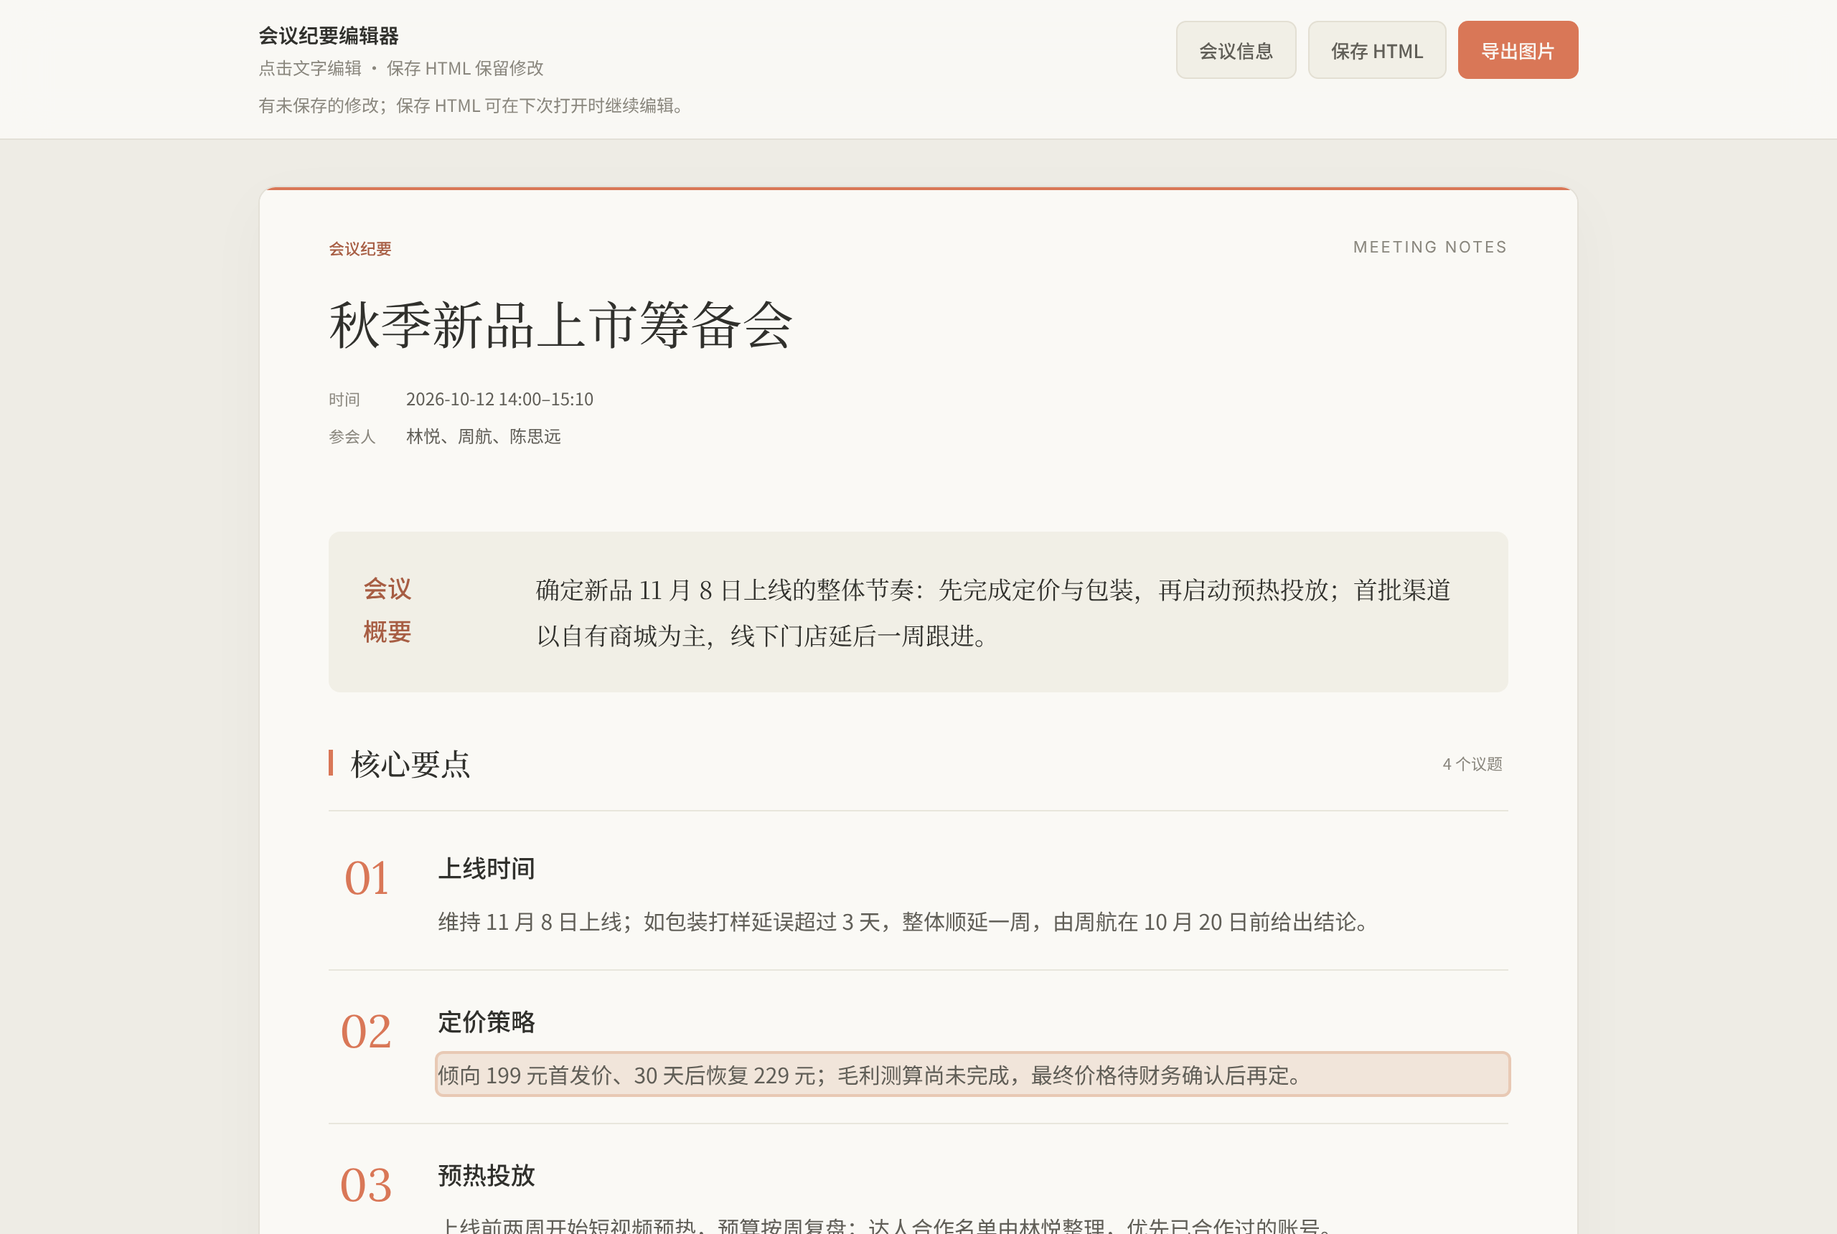
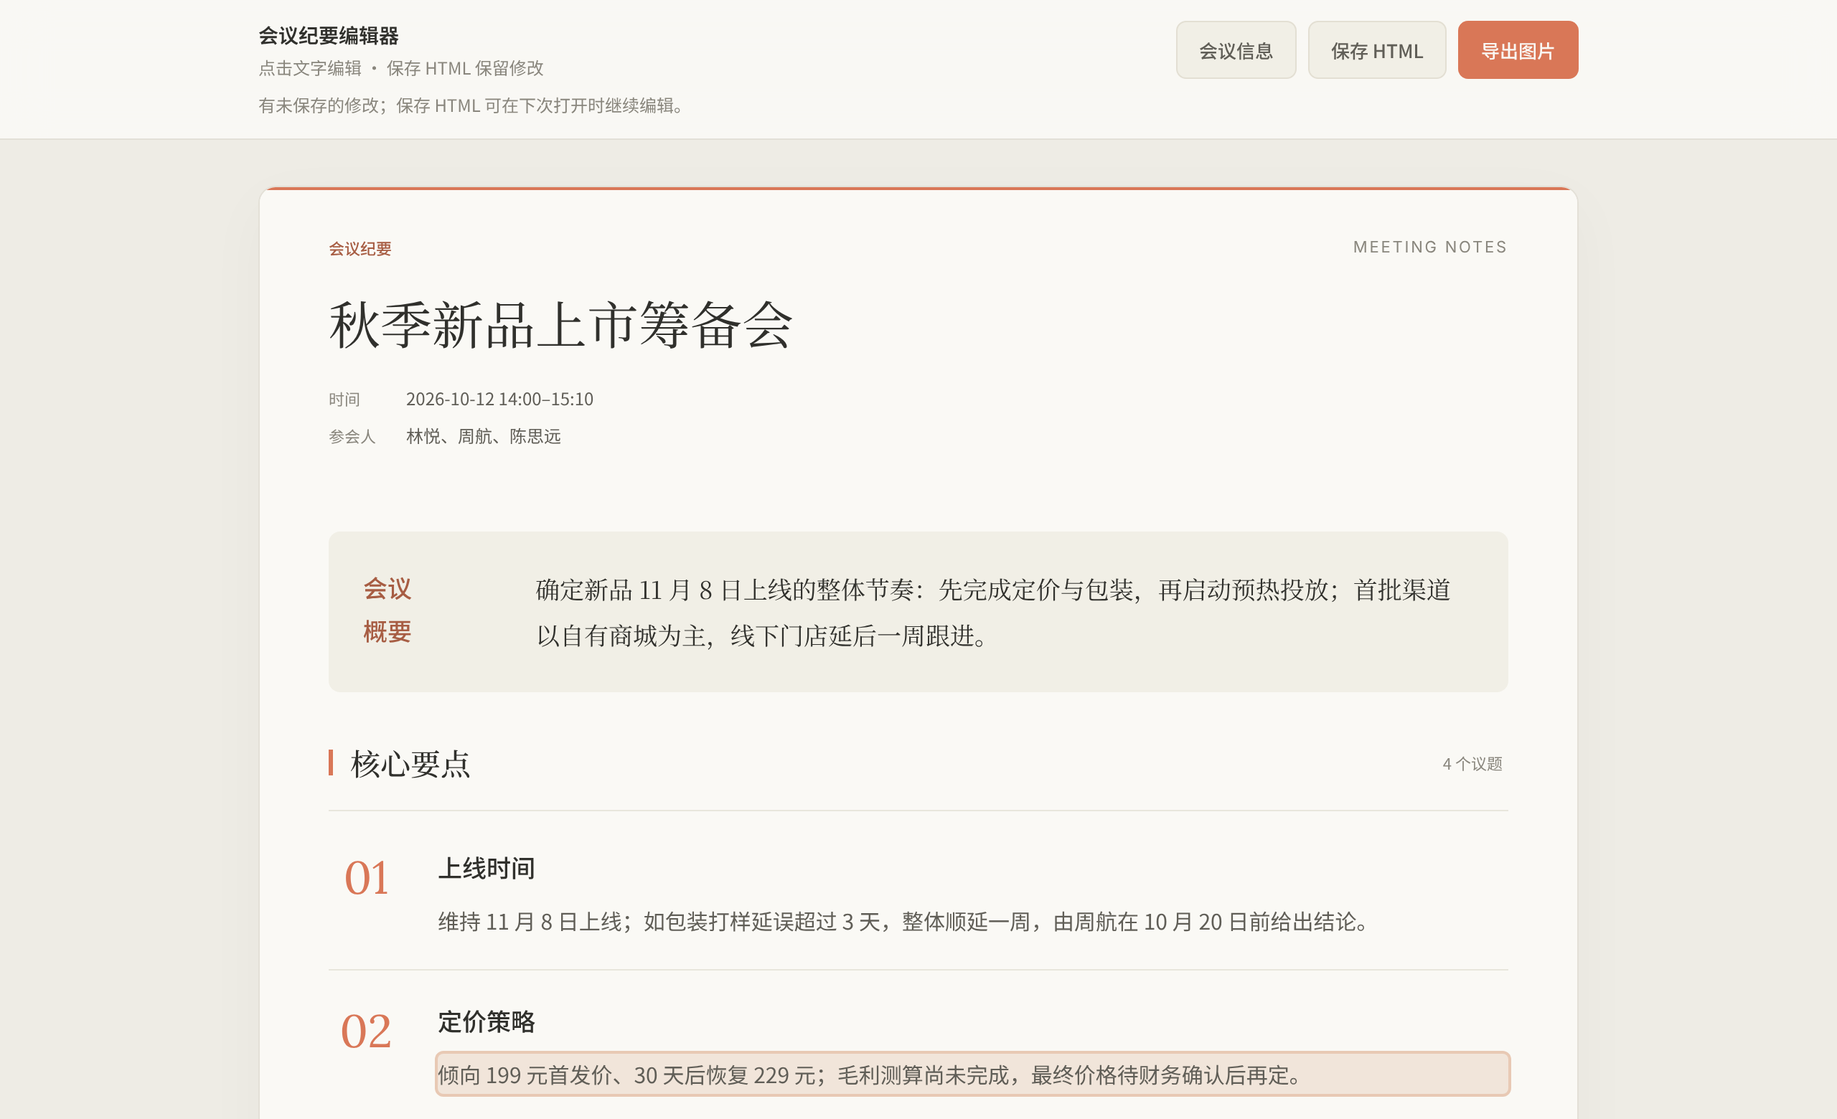
README: lighter layout and dark-mode artwork
- Dark variants of the banner and workflow image, switched with
  <picture> so they blend into GitHub's dark theme
- One-line features instead of bold run-in paragraphs; one install
  command per code block instead of commands squeezed into a table
- A single full-width editor screenshot replaces the cramped
  side-by-side table; drop the hard-to-read Mermaid diagram
- Fold requirements and API key setup into the FAQ; fewer sections

Claude-Session: https://claude.ai/code/session_01LrYj5w3TzVxpfLSNEzspcJ

diff --git a/README.md b/README.md
@@ -1,248 +1,194 @@
-<p align="center">
+<picture>
+  <source media="(prefers-color-scheme: dark)" srcset="docs/banner-dark.png">
   <img src="docs/banner.png" alt="meeting_offline：把会议录音变成能推进工作的纪要" width="100%">
-</p>
+</picture>
 
 <p align="center">
   <a href="https://github.com/sunxuwang001-sketch/meeting_offline/releases/latest"><img src="https://img.shields.io/github/v/release/sunxuwang001-sketch/meeting_offline?label=%E6%9C%80%E6%96%B0%E7%89%88%E6%9C%AC&color=d97757" alt="最新版本"></a>
   <a href="LICENSE"><img src="https://img.shields.io/badge/%E8%AE%B8%E5%8F%AF%E8%AF%81-MIT-30302c" alt="MIT 许可证"></a>
   <img src="https://img.shields.io/badge/Python-3.9%2B-30302c" alt="Python 3.9+">
-  <img src="https://img.shields.io/badge/%E4%BE%9D%E8%B5%96-%E4%BB%85%E6%A0%87%E5%87%86%E5%BA%93-30302c" alt="只用 Python 标准库">
 </p>
 
 <p align="center">
-  <a href="#让-ai-帮你安装"><b>让 AI 安装</b></a> ·
-  <a href="#快速开始">手动安装</a> ·
-  <a href="https://github.com/sunxuwang001-sketch/meeting_offline/releases/latest"><b>下载</b></a> ·
-  <a href="#你可以这样说">怎么用</a> ·
-  <a href="#隐私与数据">隐私</a> ·
-  <a href="#常见问题">常见问题</a>
+  <a href="#让-ai-帮你安装">让 AI 安装</a>　·　<a href="#手动安装">手动安装</a>　·　<a href="#怎么用">怎么用</a>　·　<a href="#常见问题">常见问题</a>
 </p>
 
----
+<br>
 
-开完会最费时间的往往不是开会本身，而是之后的整理：谁说了什么、最后定了什么、哪件事由谁在什么时候之前完成。
+**meeting_offline** 是一个装进 AI 助手里的会议纪要技能。
 
-**meeting_offline** 是一个装进 AI 助手里的技能。把录音或转写交给它，告诉它谁是谁，就能拿到一份简洁的会议纪要：**主题、时间、参会人、核心要点、主要 Todo**，同时给你一份可直接修改的网页和一张可以发到群里的图片。
+把会议录音或转写交给它，告诉它谁是谁，就能得到一份简洁的纪要：主题、时间、参会人、核心要点和主要 Todo。纪要同时交付可直接修改的网页（HTML）和一张可以发到群里的图片（PNG）。
+
+<br>
 
 ## 让 AI 帮你安装
 
-在 Codex、Claude Code、WorkBuddy 等 AI 工具里，直接说：
+在 Codex、Claude Code、WorkBuddy 等 AI 工具里说：
 
 > 帮我安装这个技能：https://github.com/sunxuwang001-sketch/meeting_offline
 
-AI 会按 [INSTALL.md](INSTALL.md) 选择适合你所用工具的方式完成安装，装好后重新打开工具即可使用。ChatGPT 和 Claude.ai 网页版需要手动上传，见[快速开始](#快速开始)。
+AI 会按 [INSTALL.md](INSTALL.md) 选择合适的方式装好，重新打开工具即可使用。
 
-## 为什么用它
+<br>
 
-- **结论清楚，不编造**：区分“已决定”“方向”和“建议”；负责人和期限只写会上真正说过的，不确定就留“—”。
-- **人和词由你确认**：每位说话人都配上观点和原话，你认一下就行；人名、产品名有疑问时给你候选，只改你勾选的地方。
-- **越用越省事**：确认过的角色和术语保存在你电脑上，下次开会自动给出候选，不用每次重新填。
-- **拿来就能用**：HTML 点击文字就能改，改完一键导出图片；图片按内容自动排版，适合直接分享。
-- **在你常用的 AI 工具里用**：Codex、Claude Code、WorkBuddy、CodeBuddy、ChatGPT、Claude.ai 都可以。
+## 它能做什么
 
-## 三步上手
+<picture>
+  <source media="(prefers-color-scheme: dark)" srcset="docs/workflow-dark.png">
+  <img src="docs/workflow.png" alt="三步：交给它录音或转写，告诉它谁是谁，拿到纪要" width="100%">
+</picture>
 
-<p align="center"><img src="docs/workflow.png" alt="三步：交给它录音或转写，告诉它谁是谁，拿到纪要" width="100%"></p>
+- **不编造**：负责人和期限只写会上说过的，没说就留空
+- **你来确认**：谁是谁、专有名词怎么写，都由你拍板
+- **越用越快**：确认过的人名和术语会记住，下次自动给出候选
+- **直接能用**：网页点一下就能改，改完一键导出图片
 
-短会议（不超过 2 位发言人）更快：认领卡片和纪要草稿会在同一条消息里给你，回复一次就能定稿。
+短会议（不超过 2 位发言人）更省事：认领和纪要草稿一起给你，回复一次就定稿。
 
-## 效果一览
+<br>
 
-<table>
-  <tr>
-    <th width="42%">纪要图片（PNG）</th>
-    <th>可编辑网页（HTML）</th>
-  </tr>
-  <tr>
-    <td valign="top"><img src="docs/example.png" alt="会议纪要图片示例"></td>
-    <td valign="top">
-      <img src="docs/editor.png" alt="纪要编辑器：点击文字直接修改">
-      <br><br>
-      <ul>
-        <li>点击任意文字直接修改，可增删要点和 Todo、勾选完成</li>
-        <li>“会议信息”里补填时间和参会人</li>
-        <li>“保存 HTML”保留修改，“导出图片”生成新的 PNG</li>
-        <li>完全离线，不加载任何外部资源</li>
-      </ul>
-    </td>
-  </tr>
-</table>
+<img src="docs/editor.png" alt="纪要编辑器：点击文字直接修改，保存 HTML，导出图片" width="100%">
 
-<p align="center"><sub>示例中的会议、人名和数据均为虚构</sub></p>
+<p align="center"><sub>点击文字直接修改　·　保存 HTML 留住修改　·　导出图片生成 PNG　·　<a href="docs/example.png">查看完整纪要图片</a></sub></p>
 
-## 快速开始
+<br>
 
-### 1. 安装
+## 手动安装
 
-| 你用的工具 | 安装方式 |
-| --- | --- |
-| Claude Code | 在 Claude Code 里输入：<br>`/plugin install meeting-offline --marketplace sunxuwang001-sketch/meeting_offline` |
-| Codex 等支持 `npx skills` 的工具 | 在终端运行：<br>`npx skills add sunxuwang001-sketch/meeting_offline --skill meeting-offline -g` |
-| WorkBuddy、CodeBuddy，或想一次装到所有工具 | 下载 [`local.zip`](https://github.com/sunxuwang001-sketch/meeting_offline/releases/latest)，解压后在文件夹里运行 `python3 install.py`（Windows：`py -3 install.py`） |
-| ChatGPT、Claude.ai（网页 / App） | 下载 [`upload.zip`](https://github.com/sunxuwang001-sketch/meeting_offline/releases/latest)，在技能设置里上传 |
+**Claude Code**：在 Claude Code 里输入
 
-- `install.py` 会找到你电脑上装了哪些 AI 工具，并全部装好；只想装某一个时加 `--target codex`、`claude`、`workbuddy` 或 `codebuddy`。
-- ChatGPT 需要支持技能的工作区套餐（Business、Enterprise、Edu）；Claude.ai 在“设置 → 功能 → 技能”里上传。
-- WorkBuddy 也可以在应用内“专家 → 技能 → 添加技能 → 导入技能”导入 `upload.zip`。
-
-### 2. 开始用
-
-重新打开 AI 工具，直接说“整理这份会议录音”就行。也可以点名调用：Codex 输入 `$meeting-offline`，Claude Code 输入 `/meeting-offline`。
-
-需要把录音转成文字时，还要配置一次阿里云 DashScope（百炼）的 API Key，在阿里云百炼控制台创建即可：macOS 运行已安装技能里的 `scripts/setup_keychain.sh`，把密钥存进钥匙串；其他系统设置环境变量 `DASHSCOPE_API_KEY`。已经有文字稿的话可以跳过这一步。
-
-## 你可以这样说
-
-| 场景 | 对 AI 说 |
-| --- | --- |
-| 整理一段录音 | 整理这份会议录音：`~/Downloads/周会.m4a` |
-| 用语音备忘录 | 用语音备忘录里最新那条录音出纪要 |
-| 已有文字稿 | 这是会议软件导出的文字稿，帮我整理成纪要 |
-| 认错了人 | 1-B 其实是王五，重新出一版 |
-| 词识别错了 | “普罗”应该是“示例Pro”，只改第二段 |
-| 自己改过 HTML | 我改了这份 HTML，帮我重新生成图片 |
-| 继续上次的会 | 继续整理昨天那场周会 |
-
-## 工作原理
-
-```mermaid
-flowchart LR
-    A[录音或转写] --> B[归档录音]
-    B --> C[转写<br/>仅在需要时]
-    C --> D[说话人认领<br/>由你确认]
-    D --> E[术语复核<br/>只改勾选处]
-    E --> F[撰写纪要]
-    F --> G[HTML + PNG]
-    G --> H[归档到会议文件夹]
-    D -. 确认的角色 .-> M[(本机角色库<br/>术语库)]
-    E -. 确认的术语 .-> M
-    M -. 下次的候选 .-> D
+```
+/plugin install meeting-offline --marketplace sunxuwang001-sketch/meeting_offline
 ```
 
-- 录音会移动到 `~/Documents/会议纪要/<设备ID>/日期_主题/`，做好的 HTML 和 PNG 放在同一个文件夹里。
-- 纪要由你的 AI 助手阅读转写后撰写；脚本只负责转写、校验、排版和归档，不会自己编写总结。
-- 修改角色或术语只会重新生成文件，不会重新上传录音。
+**Codex、Cursor 等支持 `npx skills` 的工具**
 
-## 隐私与数据
+```bash
+npx skills add sunxuwang001-sketch/meeting_offline --skill meeting-offline -g
+```
 
-| 内容 | 去哪里 |
-| --- | --- |
-| 录音文件 | 留在你电脑上；只有你同意转写时，才会上传到阿里云 DashScope |
-| 转写文字 | 由你使用的 AI 工具阅读，会发送给该工具的模型服务，和你平时在其中聊天一样 |
-| 角色库、术语库、会议工作区 | 只存在本机 `~/.meeting-offline/`，不随技能分发，也不会上传 |
-| HTML 和 PNG | 在本机生成，不依赖任何在线服务 |
-| API Key | 存在系统钥匙串或环境变量里，不写进任何文件 |
+**WorkBuddy、CodeBuddy，或一次装到所有工具**：下载 [`local.zip`](https://github.com/sunxuwang001-sketch/meeting_offline/releases/latest)，解压后在文件夹里运行
 
-- 不同电脑各自从空库开始，即使同步了用户目录也不会混用。
-- 上传给阿里云的录音按其规则处理：5 分钟以内随请求直接发送；更长的录音存入 DashScope 临时存储，最长保留 48 小时。
-- 想清空积累的数据，删除 `~/.meeting-offline/` 文件夹即可。
+```bash
+python3 install.py        # Windows：py -3 install.py
+```
+
+**ChatGPT、Claude.ai**：下载 [`upload.zip`](https://github.com/sunxuwang001-sketch/meeting_offline/releases/latest)，在技能设置里上传。
+
+装好后重新打开 AI 工具。需要把录音转成文字时，还要配置一次阿里云 DashScope API Key，见[常见问题](#常见问题)；已有文字稿可以跳过。
+
+<br>
+
+## 怎么用
+
+直接用平常的话告诉它：
+
+| 你想做的 | 对 AI 说 |
+| :-- | :-- |
+| 整理录音 | 整理这份会议录音：~/Downloads/周会.m4a |
+| 用语音备忘录 | 用语音备忘录里最新那条录音出纪要 |
+| 已有文字稿 | 把这份会议文字稿整理成纪要 |
+| 改人名 | 1-B 其实是王五，重新出一版 |
+| 改错词 | “普罗”应该是“示例Pro” |
+| 重新出图 | 我改了这份 HTML，帮我重新生成图片 |
+
+<br>
+
+## 隐私
+
+| 内容 | 在哪里 |
+| :-- | :-- |
+| 录音 | 留在你电脑上；你同意转写时才上传到阿里云 |
+| 转写文字 | 交给你所用的 AI 工具阅读，和平时聊天一样 |
+| 人名和术语库 | 只存在本机 `~/.meeting-offline/` |
+| 纪要文件 | 在本机生成，不依赖在线服务 |
+
+想清空积累的数据，删除 `~/.meeting-offline/` 文件夹即可。
+
+<br>
 
 ## 常见问题
 
 <details>
-<summary><b>要付费吗？</b></summary>
+<summary>要付费吗？</summary>
+<br>
 
-技能本身免费，采用 MIT 许可证。你需要自己的 AI 工具账号；用到录音转写时，阿里云 DashScope 按量计费。已有文字稿就不需要转写。
+技能免费（MIT 许可证）。你需要自己的 AI 工具账号；转写录音时，阿里云 DashScope 按量计费，已有文字稿则不需要。
 </details>
 
 <details>
-<summary><b>没有 API Key 能用吗？</b></summary>
+<summary>怎么配置转写用的 API Key？</summary>
+<br>
 
-能。把会议软件导出的文字稿、语音备忘录自带的转写或任何带说话人的文字记录交给它即可。只有需要把录音转成文字时才用到 API Key。
+在阿里云百炼控制台创建 DashScope API Key。macOS 运行已安装技能里的 `scripts/setup_keychain.sh`，密钥会存进钥匙串；其他系统设置环境变量 `DASHSCOPE_API_KEY`。不要把密钥贴到对话里。
 </details>
 
 <details>
-<summary><b>它会不会把人认错？</b></summary>
+<summary>它会不会把人认错？</summary>
+<br>
 
-它不会自己认人。每位说话人都会列出观点和原话，由你告诉它是谁。以前确认过的人会作为候选出现，但仍要你确认。认错了随时说“1-B 其实是……”，纪要会重新生成。
+它不会自己认人。每位说话人都会附上观点和原话，由你说出是谁；以前确认过的人会作为候选出现，仍需你确认。认错了随时说“1-B 其实是……”。
 </details>
 
 <details>
-<summary><b>负责人和期限是怎么来的？</b></summary>
+<summary>负责人和期限是怎么来的？</summary>
+<br>
 
-只有会上有人明确认领或被指派的事项才写负责人，期限也只写有人说过的。提出建议的人不会被自动当成负责人。会议日期不确定时，“下周一”这样的说法会保留原样，不会换算成具体日期。
+只有会上明确认领或被指派的事项才写负责人，期限也只写有人说过的。会议日期不确定时，“下周一”这类说法保留原样，不会换算成具体日期。
 </details>
 
 <details>
-<summary><b>Windows 和 Linux 能用吗？</b></summary>
+<summary>需要什么环境？Windows 能用吗？</summary>
+<br>
 
-能安装和使用。读取 Apple 语音备忘录只支持 macOS，其他系统直接提供录音文件即可。目前主要在 macOS 上实际使用过；Windows 和 Linux 已通过自动化测试，还没有完整的实机验证，遇到问题欢迎提 Issue。
+需要 Python 3.9 或更新版本，只用标准库。生成图片用本机的 Chrome、Edge 或 Chromium；没有也没关系，在网页里点“导出图片”即可。Windows 和 Linux 可以安装使用，读取 Apple 语音备忘录只支持 macOS（[配置说明](skills/meeting-offline/references/voice-memos-setup.md)）。目前主要在 macOS 上实际使用过。
 </details>
 
 <details>
-<summary><b>没有 Chrome 怎么生成图片？</b></summary>
+<summary>录音能有多长？上传到阿里云的录音怎么处理？</summary>
+<br>
 
-生成 PNG 需要本机有 Chrome、Edge 或 Chromium 中的任意一个。没有的话，HTML 照常交付，在网页里点“导出图片”就能得到同样的 PNG。
+最长 12 小时、1 GB。5 分钟以内的录音随请求直接发送；更长的存入 DashScope 临时存储，最长保留 48 小时。超过 2 小时且要区分说话人时，会先征求你的确认。
 </details>
 
 <details>
-<summary><b>换了电脑怎么办？</b></summary>
+<summary>换了电脑怎么办？</summary>
+<br>
 
-新电脑会从空库开始积累，这是有意的设计，避免不同电脑的数据混在一起。同一台电脑上的不同 AI 工具共用一份数据。
+新电脑从空库开始积累，不同电脑的数据不会混在一起。同一台电脑上的不同 AI 工具共用一份数据。
 </details>
 
 <details>
-<summary><b>录音能有多长？</b></summary>
+<summary>从旧版 meeting-minutes 升级会丢数据吗？</summary>
+<br>
 
-转写支持最长 12 小时、1 GB 以内的录音。超过 2 小时且需要区分说话人时，会先提醒你转写服务的建议，再由你确认是否继续。
+不会。运行新版 `install.py`，旧技能会移到 `skill-backups/`，原有的人名、术语和转写缓存继续可用。
 </details>
 
 <details>
-<summary><b>从旧版 meeting-minutes 升级会丢数据吗？</b></summary>
-
-不会。直接运行新版 `install.py`，旧技能会移到 `skill-backups/`，原有的角色、术语和转写缓存继续可用。
-</details>
-
-## 环境要求
-
-- Python 3.9 或更新版本，只用标准库，不需要另外安装 Python 包
-- Chrome、Edge 或 Chromium 之一，用于直接生成 PNG（可选）
-- 需要转写时：阿里云 DashScope API Key 和 curl
-- 读取 Apple 语音备忘录（可选，仅 macOS）：见 [配置说明](skills/meeting-offline/references/voice-memos-setup.md)
-
-<details>
-<summary><b>给开发者</b></summary>
-
-### 仓库结构
+<summary>给开发者</summary>
+<br>
 
 ```
-skills/meeting-offline/   技能本体（AI 工具安装的就是这个文件夹）
+skills/meeting-offline/   技能本体（各工具安装的就是这个文件夹）
   SKILL.md                主流程、纪要要求和硬性规则
-  references/             各环节详细说明（转写、认领、术语、交付、安装等）
-  scripts/                Python 脚本（转写、工作区、HTML/PNG 生成、归档、本地库）
-  assets/                 HTML 模板
+  references/             各环节详细说明
+  scripts/                转写、工作区、HTML/PNG、归档、本地库
   tests/                  单元测试
-install.py                本机安装器
 INSTALL.md                写给 AI 助手的安装说明
-.claude-plugin/           Claude Code 插件清单（插件市场安装用）
-build_package.py          更新 MANIFEST 校验值并打包
-MANIFEST.json             技能文件校验值，安装器据此校验
-CHANGELOG.md              更新记录（也用作 Release 说明）
-.github/workflows/        版本号更新合并到 main 后自动发布 Release
-docs/                     README 配图
+install.py                本机安装器
+build_package.py          更新校验值并打包
+.claude-plugin/           Claude Code 插件清单
+.github/workflows/        自动发布 Release
 ```
 
-### 测试与打包
+测试：`cd skills/meeting-offline && python3 -m unittest discover -s tests`
 
-```bash
-cd skills/meeting-offline
-python3 -m unittest discover -s tests      # 本机有 Chromium 时会包含 PNG 渲染测试
-cd ../..
-python3 build_package.py --out dist        # 生成 local.zip 和 upload.zip
-```
+打包：`python3 build_package.py --out dist`。改动 `skills/meeting-offline/` 后都要运行它更新 `MANIFEST.json`，否则安装器会拒绝安装。
 
-`MANIFEST.json` 记录技能文件的校验值。改动 `skills/meeting-offline/` 下的任何文件后，都要运行 `build_package.py` 更新它，否则安装器会拒绝安装。
-
-### 发布新版本
-
-1. 在 `CHANGELOG.md` 顶部加上 `## X.Y.Z` 一节；
-2. 运行 `python3 build_package.py --version X.Y.Z` 并提交；
-3. 合并到 `main`。
-
-GitHub Actions 发现这个版本还没有 Release，就会运行测试、打包，创建 `vX.Y.Z` 标签和附带两个安装包的 Release。
-
+发布：在 `CHANGELOG.md` 加一节 `## X.Y.Z`，运行 `python3 build_package.py --version X.Y.Z`，提交并合并到 `main`，GitHub Actions 会自动测试、打包并发布 Release。
 </details>
 
-## 许可证
+<br>
 
-[MIT](LICENSE) © 2026 sunxuwang001-sketch
+<p align="center"><sub>MIT 许可证 © 2026 sunxuwang001-sketch　·　示例中的会议、人名和数据均为虚构</sub></p>
